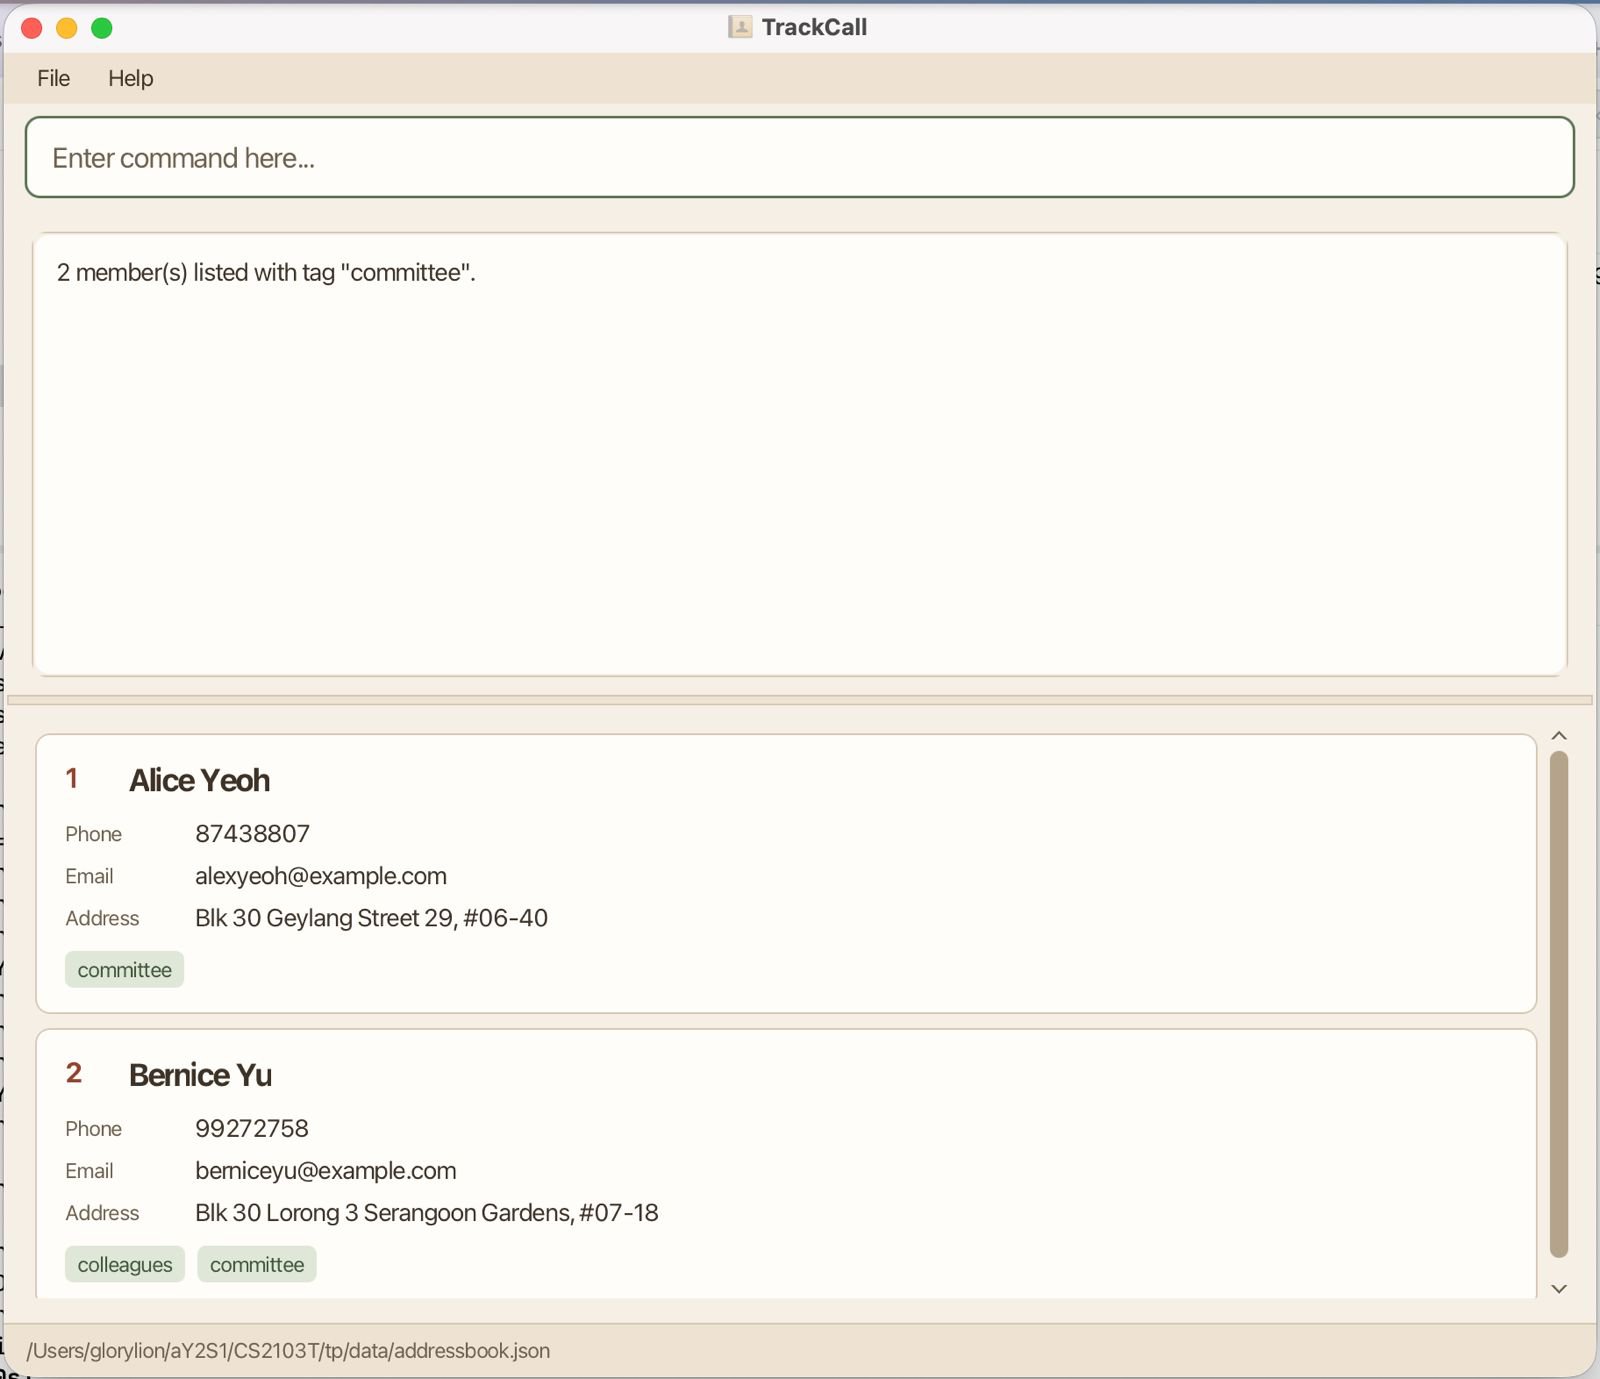
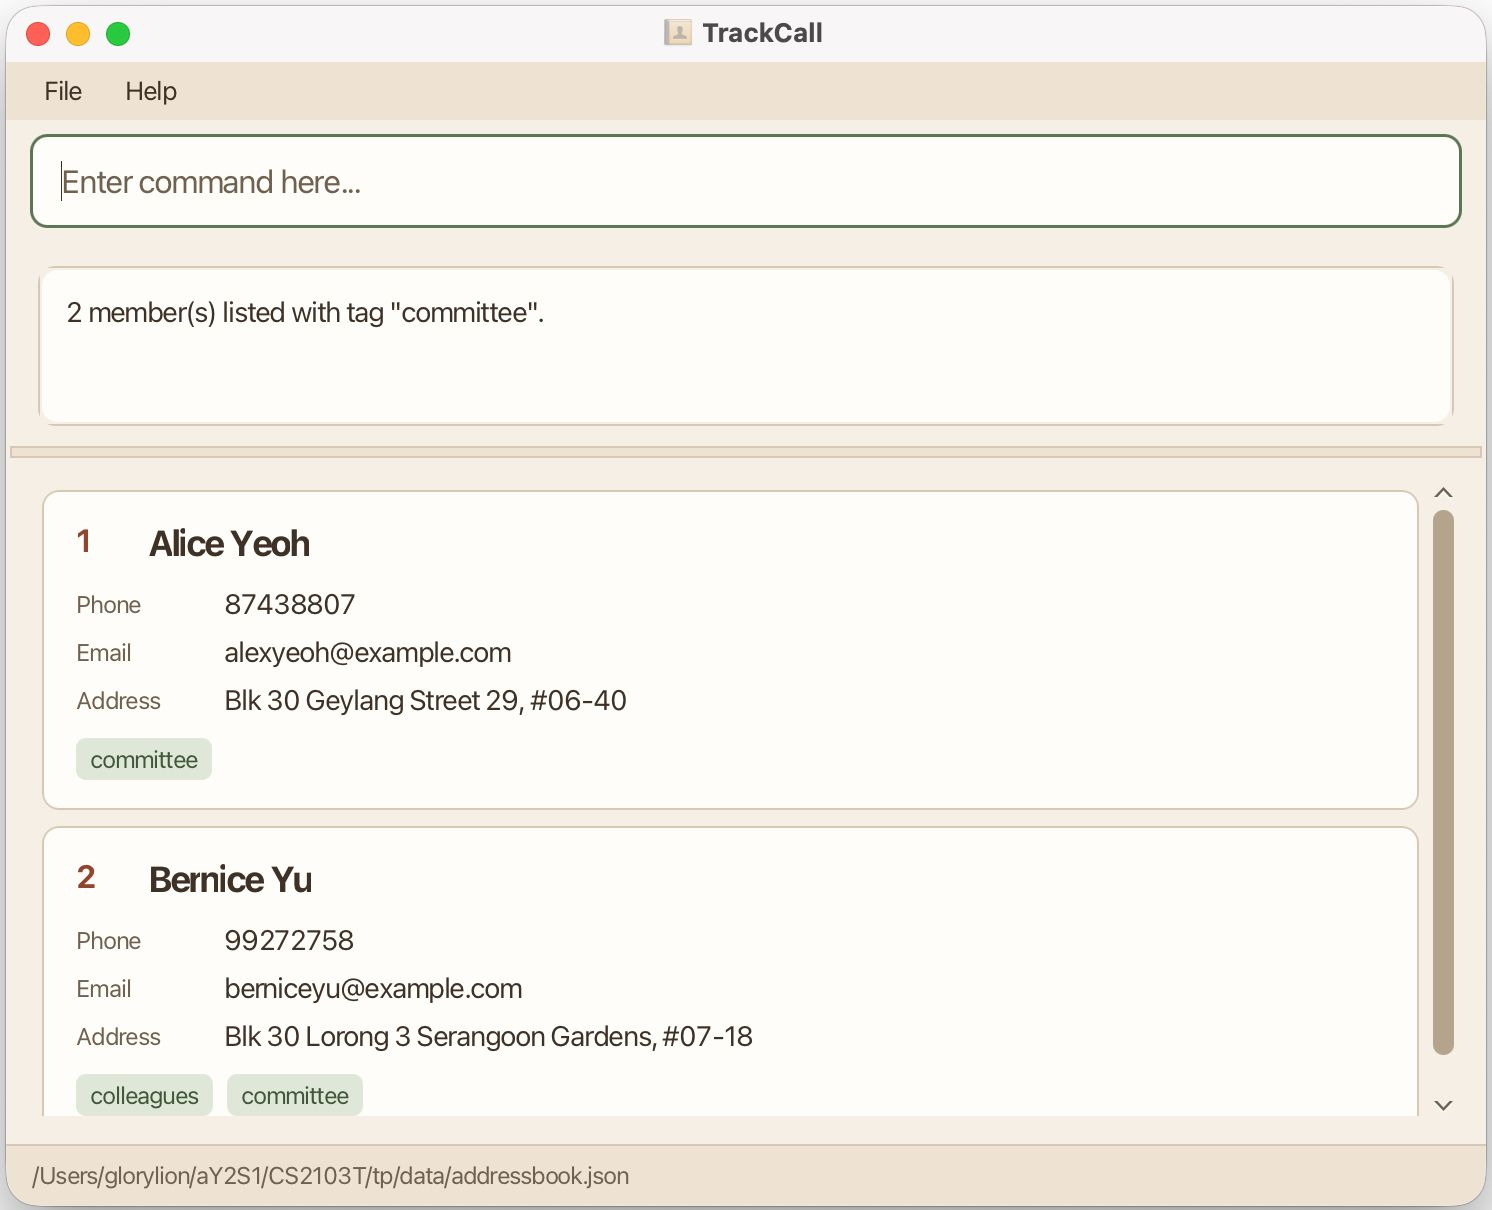
Align Developer Guide with current implementation

Changed region(s): [[0.0, 0.0, 1.0, 1.0], [0.0925, 0.4281, 0.2158, 0.4587]]

diff --git a/docs/DeveloperGuide.md b/docs/DeveloperGuide.md
@@ -307,7 +307,8 @@ and tag labels.
 
 Find feedback reports `1 member listed.` or `N members listed.`, including `0 members listed.`
 List and clear use the exact count messages above.
-Data-changing feedback is shown only after saving. Duplicate-name errors explain the existing name rule and suggest `edit`.
+Data-changing feedback is shown only after saving. Duplicate errors state that a member with these contact details
+already exists and suggest `edit`.
 
 #### Window placement
 
@@ -328,6 +329,8 @@ to `Storage#saveAddressBook`.
 Parsing and execution failures do not save. Data-changing commands return normal success only after
 the save succeeds.
 
+![Automatic-saving workflow after each command](images/AutomaticSavingData.png)
+
 #### File writes
 
 `StorageManager` delegates JSON storage to `JsonAddressBookStorage`. The default file is
@@ -342,7 +345,7 @@ partial overwrite. An existing saved file remains intact on failure; temporary-f
 If saving fails, `LogicManager` reports a `SaveFailureException`, a `CommandException` subtype that
 also records whether the change remains applied.
 
-For `add`, `edit`, and `delete`, the model change
+For `add`, `edit`, `delete`, `tagall`, and `untagall`, the model change
 remains in memory. `CommandBox` clears the already-applied input so pressing Enter cannot accidentally
 repeat an indexed edit or deletion. The result explains that the previous saved roster is unchanged.
 
@@ -366,14 +369,15 @@ data-changing command replaces it. Null or invalid preferences fall back to defa
 through the usual preferences setup.
 
 The current JSON format uses a `persons` array and a `tags` array per member. Duplicate identity compares
-all four contact fields exactly and ignores tags. The email validator avoids excessive backtracking on long
+all four trimmed contact fields exactly, including case and internal spacing, and ignores tags.
+The email validator avoids excessive backtracking on long
 input, and a log-file initialisation failure uses the console logger instead of aborting startup.
 
 ### Command parsing
 
 `ArgumentTokenizer` recognises the supported lowercase field prefixes when preceded by whitespace,
 including a tab. It trims surrounding value whitespace without removing internal address tabs or
-slashes. `list`, `clear`, and `exit` reject extra arguments before execution. Invalid commands leave
+slashes. `list`, `sort`, `clear`, and `exit` reject extra arguments before execution. Invalid commands leave
 records, the current list, and the saved file unchanged; the input remains available for correction.
 
 `AddCommandParser` first checks whitespace-delimited single ASCII letters followed by `/`.
@@ -414,12 +418,9 @@ The remaining differences from the requirements are:
 * Storage uses `tags` rather than the intended `tagged` schema in the requirements appendix.
 * Startup loading errors are recorded in the log; the requirements' user-visible load messages remain planned.
   Undo/redo and deletion confirmation are not selected for the MVP.
-
-![Intended automatic-saving workflow for the core commands](images/AutomaticSavingData.png)
-
-AI-assisted design illustration of the intended saving policy for the core commands. Implementation
-status is described above; this figure is not a screenshot or evidence of v1.1 implementation.
-`tagall` and `untagall` use the same save-after-change workflow.
+* Manual-file validation is not yet as strict as UC07. Loading currently ignores unknown member fields,
+  keeps the last value of a repeated field, and accepts a JSON number where a text field is expected.
+  Comments and trailing commas are rejected.
 
 ### Filter members by tag
 
@@ -430,7 +431,7 @@ Usage examples are in the [User Guide](UserGuide.md#filter-displayed-members-by-
 
 `FilterCommandParser` accepts one `t/TAG` argument, trims surrounding whitespace, and requires 1 to 30
 ASCII letters or digits. Missing, repeated, or invalid arguments are rejected before the view changes.
-These restrictions are enforced in the parser, leaving the shared `Tag` model unchanged.
+The parser checks the tag before constructing it; the shared `Tag` model enforces the same 1 to 30 character rule.
 
 #### Execution
 
@@ -703,9 +704,9 @@ These rules describe the selected MVP and apply to the use cases below.
    displayed when the command is submitted. Hidden members and unrelated tags are unchanged.
    Adding an existing tag or removing an absent tag skips that member. Reapply searches and
    filters after the whole batch. Changed and skipped counts refer to the original target set.
-9. Valid `add`, `edit`, `delete`, `clear`, `tagall`, and `untagall` commands save the complete
+9. Valid `add`, `edit`, `delete`, `clear`, `tagall`, `untagall`, and `import` commands save the complete
    roster, including valid operations that make no change. An empty bulk target is an error
-   and does not save. `help`, `list`, `find`, `filter`, and `exit` do not save.
+   and does not save. `help`, `list`, `sort`, `find`, `filter`, `export`, and `exit` do not save.
 10. Report data-changing command success only after saving succeeds. A failed save preserves
     the previous saved file and reports a storage error. Except for `clear`, changes remain in
     memory and can be lost on exit. Failed `clear` restores the previous records, displayed
@@ -714,7 +715,7 @@ These rules describe the selected MVP and apply to the use cases below.
 11. `add` restores the full list and appends the record. `delete` removes one indexed record and
     retains the active search and filters. `clear` removes all records, including hidden ones,
     resets the view, and preserves application settings. Deletion and clearing have no
-    confirmation or undo. `list`, `clear`, and `exit` reject extra arguments. `exit` closes the
+    confirmation or undo. `list`, `sort`, `clear`, and `exit` reject extra arguments. `exit` closes the
     app without a final save or another warning about unsaved changes.
 12. Startup reads the local `data/addressbook.json` relative to the JAR folder in packaged builds
     or the working directory in development. A missing file loads sample members and reports that
@@ -764,7 +765,8 @@ or window; it must remain keyboard accessible.
 
 * With networking disabled, `help` shows a concise summary of every executable command in the
   running version. The completed MVP includes `help`, `add`, `list`, `edit`, `find`, `delete`,
-  `clear`, `exit`, `filter`, `tagall`, and `untagall`. An earlier iteration must not present an
+  `clear`, `exit`, `filter`, `tagall`, `untagall`, `sort`, `export`, and `import`.
+  An earlier iteration must not present an
   unimplemented command as available.
 * `help COMMAND` shows the command purpose, syntax, parameter rules, at least one valid example
   with its expected result, and relevant errors or limitations. Examples involving an index
@@ -858,11 +860,11 @@ but remains in the roster. The secretary can use `list` to see it again.
 
 The search command is `find KEYWORD [MORE_KEYWORDS]`. It accepts one or more whitespace-separated
 keywords, ignores case, matches complete name words, and returns records matching any keyword in
-address-book order.
+address-book order, or in name order while `sort` is active.
 
 A successful search reports `1 member listed.`, `N members listed.`, or
 `0 members listed.` and does not save the data file. `find` with no keyword reports
-`Invalid command format. Usage: find KEYWORD [MORE_KEYWORDS]`; a wrong-case command such as
+`Invalid command format.` followed by the `find` usage; a wrong-case command such as
 `FIND John` reports `Unknown command. Type help for available commands.` A new `find` searches the
 complete roster and replaces the previous search and filters.
 
@@ -937,8 +939,8 @@ extra arguments, and out-of-range indices are rejected.
 
 After the updated roster is saved,
 successful deletion reports `Deleted member` followed by the readable member fields specified
-above. A save failure reports `Could not save data to file: [DETAILS]`; the
-deletion remains in memory, but the previous saved file is preserved.
+above. A save failure reports `Could not save data due to the following error: [DETAILS]` with retry
+guidance; the deletion remains in memory, but the previous saved file is preserved.
 
 #### UC05: Reset the whole roster
 
@@ -1048,7 +1050,7 @@ working without changing the persisted roster.
   proceeds with `exit`, TrackCall still closes, but changes that exist only in memory are not
   guaranteed to be present after restart.
 * **3a.** The command contains an argument or uses the wrong command spelling or case. TrackCall
-  reports `Invalid command format. Usage: exit` for extra arguments, or the unknown-command error
+  reports `Invalid command format.` followed by the `exit` usage for extra arguments, or the unknown-command error
   `Unknown command. Type help for available commands.` for a wrong-case command such as `EXIT`.
   TrackCall keeps the window open, and the secretary can retry step 2.
 
